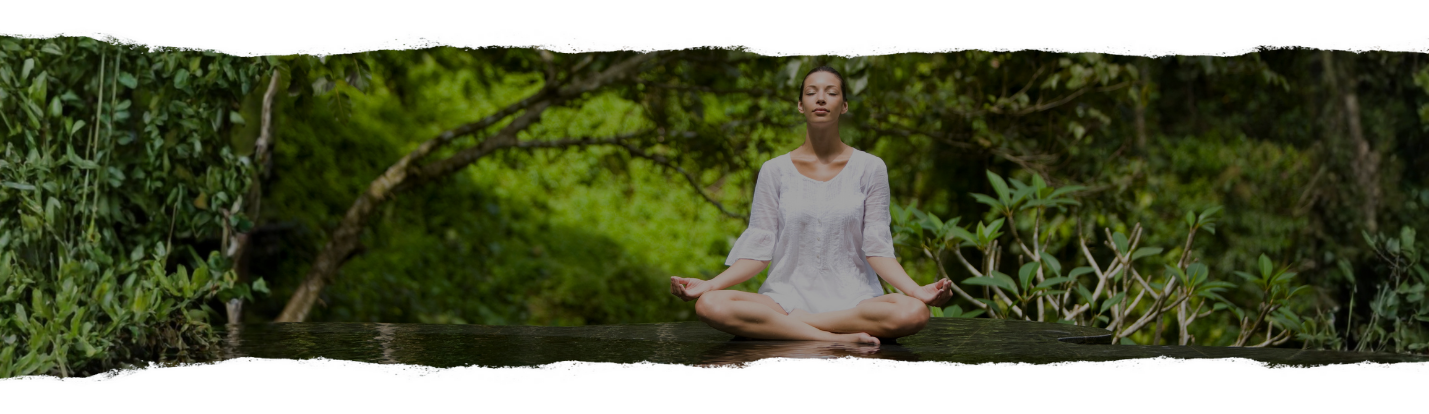
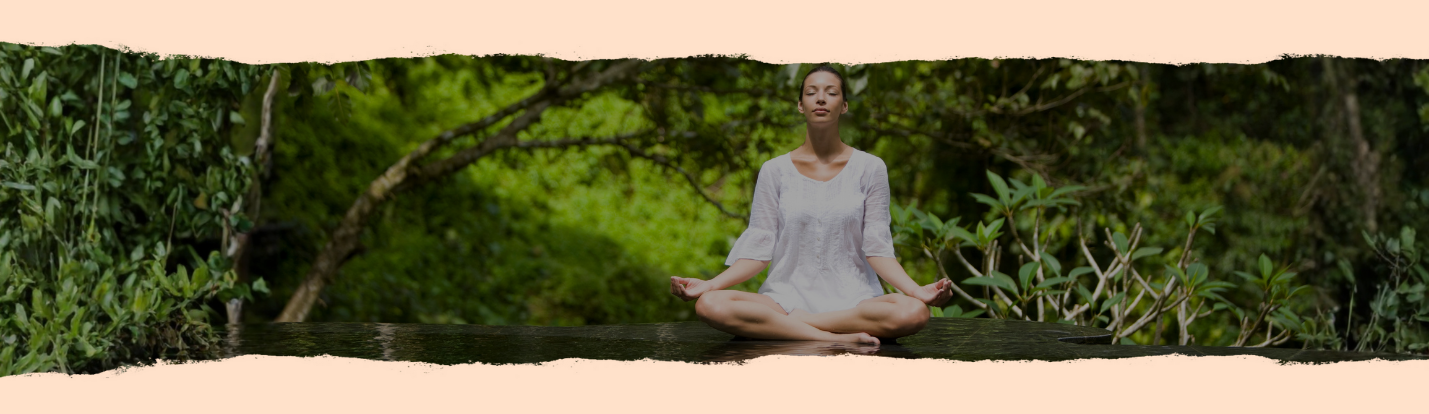
redesign the home page

Changed region(s): [[0.0, 0.8406, 1.0, 1.0], [0.0, 0.0, 1.0, 0.1739]]

diff --git a/src/components/Homepage/HathaAshramSection.jsx b/src/components/Homepage/HathaAshramSection.jsx
@@ -2,11 +2,11 @@ import React from "react";
 import { motion } from "framer-motion";
 import styles from "../../assets/styles/Homepage/HathaAshramSection.module.css";
 import dividerImg from "../../assets/images/linedesign.png";
-import yogaAlliance from "../../assets/images/yoga-alliance-logo-1-e1725693185665.jpg";
-import rys200 from "../../assets/images/yoga-alliance-logo-2.jpg";
-import rys300 from "../../assets/images/yoga-alliance-logo-3.jpg";
-import yacep from "../../assets/images/yoga-alliance-logo-4.jpg";
-import rpyts from "../../assets/images/images.png";
+import yogaAlliance from "../../assets/images/yoga-alliance-logo-1-e1725693185665.png";
+import rys200 from "../../assets/images/yoga-alliance-logo-2.png";
+import rys300 from "../../assets/images/RYS300.png";
+import yacep from "../../assets/images/images500.png";
+import rpyts from "../../assets/images/3.png";
 
 /* ===================== */
 /* Framer Motion Variants */

diff --git a/src/components/Homepage/ReviewsSection.jsx b/src/components/Homepage/ReviewsSection.jsx
@@ -3,7 +3,7 @@ import { motion } from "framer-motion";
 import styles from "../../assets/styles/Homepage/ReviewsSection.module.css";
 
 import yogaAlliance from "../../assets/images/yoga-alliance.webp";
-import tripadvisor from "../../assets/images/trip-advisor-logo.webp";
+import tripadvisor from "../../assets/images/trip-advisor-logo.png";
 import google from "../../assets/images/Google-places-logo.webp";
 import facebook from "../../assets/images/facebook-rating.webp";
 

diff --git a/src/assets/styles/Homepage/HathaAshramSection.module.css b/src/assets/styles/Homepage/HathaAshramSection.module.css
@@ -1,5 +1,5 @@
 .section {
-  background: #ffffff;
+ background: linear-gradient(1deg, #ffdfc5, #fff4f4);
   padding-bottom: 20px;
   padding-top: 40px;
 }
@@ -56,7 +56,7 @@
 }
 
 .certifications img {
-  max-height: 125px;
+  max-height: 156px;
   object-fit: contain;
 }
 

diff --git a/src/assets/styles/Homepage/Facilities.module.css b/src/assets/styles/Homepage/Facilities.module.css
@@ -3,7 +3,7 @@
 ===================== */
 .facilitiesSection {
   padding: 80px 0;
-  background: linear-gradient(135deg, #f8f5ff 0%, #fff5f8 100%);
+  background: linear-gradient(180deg, #ffdfc5, #fff4f4);
 }
 
 .container {

diff --git a/src/assets/styles/Homepage/HowToReach.module.css b/src/assets/styles/Homepage/HowToReach.module.css
@@ -1,7 +1,7 @@
 /* Section */
 .reachSection {
   padding: 90px 0;
-  background: linear-gradient(135deg, #fdf7ff, #f3e9f7);
+  background: linear-gradient(1deg, #ffdfc5, #fff4f4);
 }
 
 /* Content */

diff --git a/src/assets/styles/Homepage/WhyChooseUs.module.css b/src/assets/styles/Homepage/WhyChooseUs.module.css
@@ -1,10 +1,6 @@
 .section {
   padding: 90px 0;
-  background: linear-gradient(
-    135deg,
-    #f7f3ff,
-    #ffffff
-  );
+  background: linear-gradient(180deg, #ffdfc5, #fff4f4);
 }
 
 .heading {

diff --git a/src/assets/styles/Homepage/YogaOverview.module.css b/src/assets/styles/Homepage/YogaOverview.module.css
@@ -1,5 +1,5 @@
 .section {
-  background: linear-gradient(180deg, #faf7f4, #ffffff);
+  background: linear-gradient(2deg, #ffdfc5, #fff4f4);
   padding: 50px;
   text-align: center;
 }

diff --git a/src/assets/styles/Homepage/YogaSchool.module.css b/src/assets/styles/Homepage/YogaSchool.module.css
@@ -1,6 +1,8 @@
 .section {
   padding: 90px 0;
-  background: #ffffff;
+  background: linear-gradient(180deg, #ffdfc5, #fff4f4);
+
+
   font-family: "Poppins", sans-serif;
 }
 

diff --git a/src/assets/styles/Homepage/ReviewsSection.module.css b/src/assets/styles/Homepage/ReviewsSection.module.css
@@ -1,6 +1,6 @@
 .section {
   padding: 60px 0px 30px 0px;
-  background: #ffffff;
+  background: linear-gradient(180deg, #ffdfc5, #fff4f4);
 }
 
 /* ===== HEADING ===== */

diff --git a/src/assets/styles/Homepage/WhatWeOffer.module.css b/src/assets/styles/Homepage/WhatWeOffer.module.css
@@ -1,6 +1,6 @@
 .section {
   padding: 0px 0px 50px 0px;
-  background-color: #ffffff;
+  background: linear-gradient(1deg, #ffdfc5, #fff4f4);
 }
 
 .headingWrapper {

diff --git a/src/assets/styles/Header.module.css b/src/assets/styles/Header.module.css
@@ -51,8 +51,8 @@
 }
 
 .social a {
-  width: 26px;
-  height: 26px;
+  width: 32px;
+  height: 32px;
   border-radius: 50%;
   background: #c000ff;
   color: #fff;

diff --git a/src/assets/styles/Homepage/VedicMantraCourse.module.css b/src/assets/styles/Homepage/VedicMantraCourse.module.css
@@ -1,6 +1,6 @@
 .section {
   padding: 0px 0px 60px 0px;
-  background: #ffffff;
+   background: linear-gradient(180deg, #ffdfc5, #fff4f4);
 }
 
 .cardWrapper {
